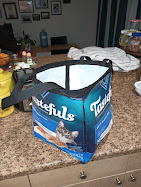
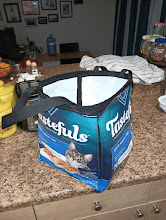
fixed blurry photos and typos

diff --git a/blog/category-eco-goblin.html b/blog/category-eco-goblin.html
@@ -53,7 +53,7 @@
                                 thrift store)</li>
 
                                 <img src="../images/EcoGoblin/Patio.jpg" alt="Garden" class="blog-img-fullpost">
-                                <li>A garden full of  pots repurposed from buckets I found on the beach after the last storm 
+                                <li>A garden full of pots repurposed from buckets I found on the beach after the last storm 
                                     (supplemented with kitchen scraps and mulch from the free pile at a local park.) 
                                     The stained glass hanging and woven tucan planter were also garbage finds, as was the 
                                     shelf. As was the raised bed. Technically so were the cats. You get the idea.</li>
@@ -67,7 +67,7 @@
                                 bucket of shea butter I obtained in bulk last year.</li>
 
                                 <img src="../images/EcoGoblin/Cannin.jpg" alt="Cans of Things" class="blog-img-fullpost">
-                                <li>Canning applesauce, chicken broth, and cole slaw (made from free apples, vegetable scraps and meat 
+                                <li>Canning applesauce, broth, and cole slaw (made from free apples, vegetable scraps and meat 
                                     bones, and a massive leftover head of cabbage, respectively.)</li>
 
                                 <img src="../images/EcoGoblin/tastefuls_bag.jpg" alt="Tastefuls Bag" class="blog-img-fullpost">
@@ -83,7 +83,7 @@
 
                                 I've been gradually embracing Eco Goblin Life for the last 4 or 5 years, but began again in earnest last winter 
                                 once I realized things were about to get shitty in new and exciting ways. One of the things I've been most 
-                                fascinated recently with has been learning to predict the weather. I've even got Chuck on the train, although 
+                                fascinated with recently has been predicting the weather. I've even got Chuck on the train, although 
                                 to be fair he has been wonderfully supportive and enthusiastic about all my weird schemes. <br><br>
                             </P>
 
@@ -91,11 +91,11 @@
                             
                             <P>
                                 Our weather journal. This month I added space to add more specific data so I can more easily track things. 
-                                I may even program something in the future to be able to enter data digitally instead of tracking it in the 
-                                notebook. This cloud book (found secondhand on thriftbooks) has also been incredibly useful. <br><br>
+                                I may even program something in the future to be able to enter data digitally instead of using the 
+                                notebook. The cloud book (found secondhand on thriftbooks) has also been incredibly useful. <br><br>
                                 
-                                This way of living that feels like finding treasures in a video game. There are so many resources. There is 
-                                so much...stuff on this planet.  Everywhere. The vast majority of what I need can be sourced for free or 
+                                This way of living feels like finding treasures in a video game. There are so many resources. There is 
+                                so much...<i>stuff</i> on this planet.  Everywhere. The vast majority of what I need can be sourced for free or 
                                 secondhand, and there's something profoundly comforting about that for me. There's also the added bonus that 
                                 capitalism doesn't work on me anymore, and neither does advertising. Despite the grave uncertainty that I'm 
                                 facing as a human on this planet in The Year of Our Lord 2025, I am somewhat placated by the fact that I can 
